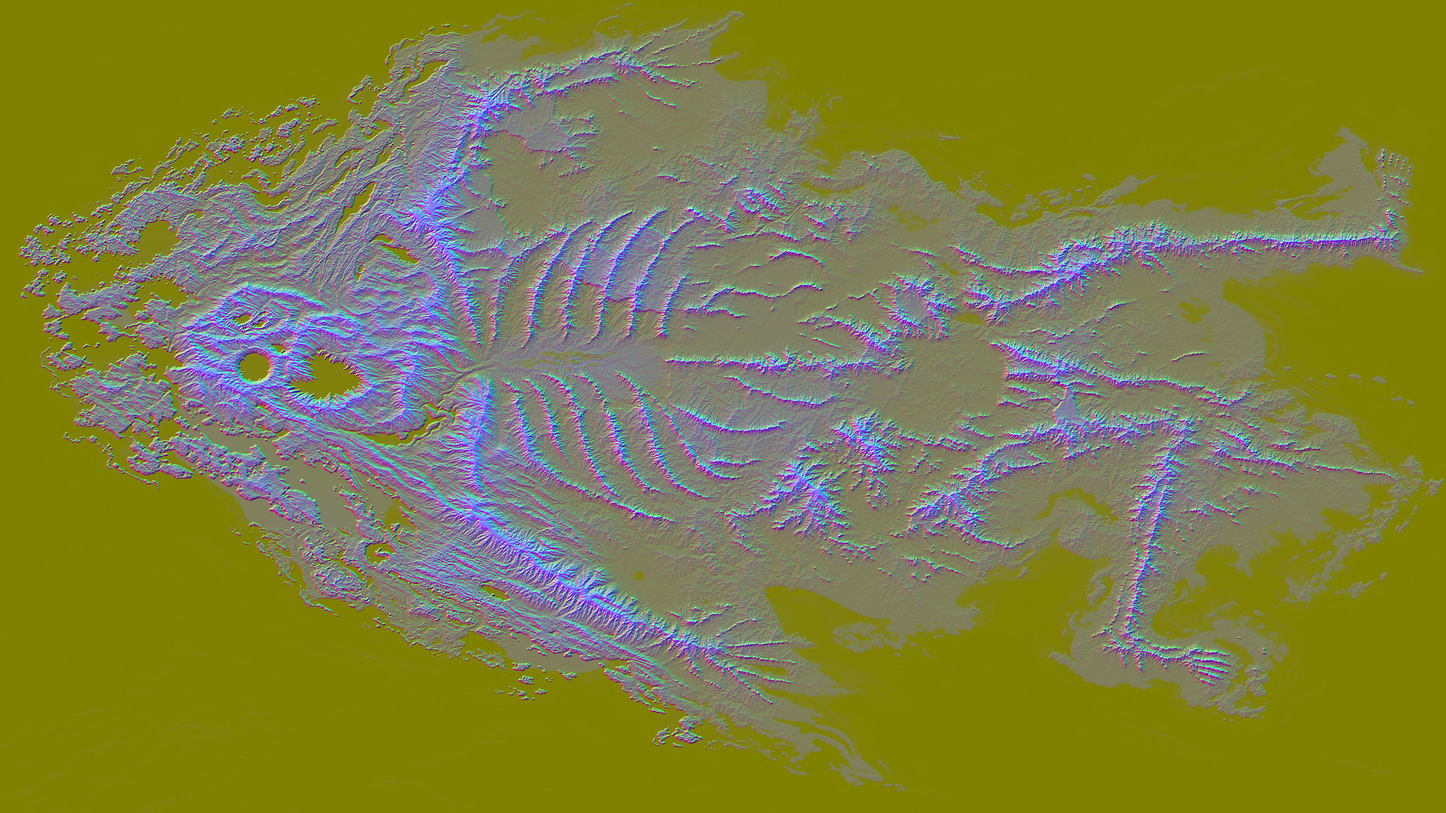
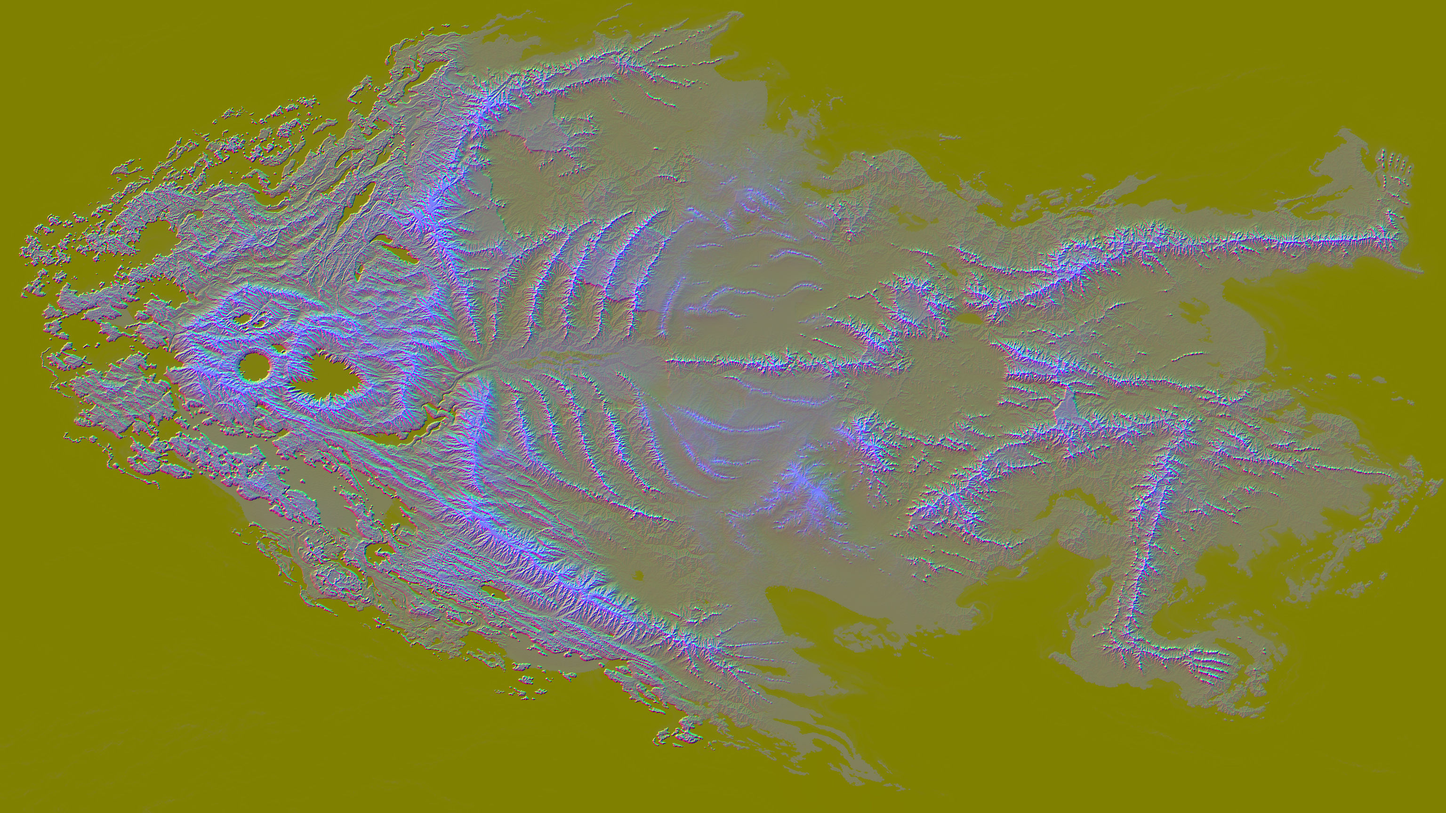
Ribs: one range a rib (the light's land lowers the broad form of each bone, the lesser ranges lowered and dark); night: bones bolder under the moon, limbs read as fine as they are broad

diff --git a/src/places/reveal/land/body.ts b/src/places/reveal/land/body.ts
@@ -70,7 +70,11 @@ export const BODY_GROUND = /* glsl */ `
   ground = mix(ground, body, joined);
   // (By night the bones are broad pale ranges under the moon, each in its whole body, as the high ground stands: not their crest lines alone.)
   float boneBody = joined * land * smoothstep(0.25, 0.45, height) * smoothstep(0.14, 0.32, dot(coarseGround, vec3(0.3, 0.55, 0.15)));
-  ground = mix(ground, vec3(0.62, 0.59, 0.52), 0.35 * uEmber.x * boneBody);
+#ifdef BODYONLY
+  // (The limbs are thin ranges: read no coarser than they are broad, they keep the skull's value under the moon.)
+  if (uEmber.x > 0.0) boneBody = joined * land * smoothstep(0.2, 0.4, height) * smoothstep(0.14, 0.3, max(dot(coarseGround, vec3(0.3, 0.55, 0.15)), dot(readWide(uMapWide, clamp(uvWide, 0.0, 1.0), 3.0).rgb, vec3(0.3, 0.55, 0.15))));
+#endif
+  ground = mix(ground, vec3(0.62, 0.59, 0.52), 0.55 * uEmber.x * boneBody);
 #endif
 `;
 
@@ -87,7 +91,7 @@ export const BODY_LIGHT = /* glsl */ `
   ground *= 1.0 - 0.45 * saltFlat * uEmber.x * joined;
   // (By night the moon lights the ranges in their whole body, broad, as it does the high ground of any land seen from orbit: the
   // body of a bone stands toward it, and the fine relief is a grain on that, not a wire drawing.)
-  slope = mix(slope, 0.7 * slope, uEmber.x * joined) - uBodyRelief2.w * boneBody * uEmber.x * normalize(uMoonDir.xz);
+  slope = mix(slope, 0.5 * slope, uEmber.x * joined) - uBodyRelief2.w * boneBody * uEmber.x * normalize(uMoonDir.xz);
 #endif
 `;
 

diff --git a/src/places/reveal/land/index.ts b/src/places/reveal/land/index.ts
@@ -24,7 +24,7 @@ const FEEDER: [number, number][] = [[1224.0, 1440.0], [1226.8, 1468.5], [1221.0,
 const BODY_RELIEF = Number(import.meta.env.VITE_BODY_RELIEF ?? 1.6);
 const BODY_SHADOW = Number(import.meta.env.VITE_BODY_SHADOW ?? 1.0);
 const BODY_FINE = Number(import.meta.env.VITE_BODY_FINE ?? 0.7);
-const BODY_NIGHT = Number(import.meta.env.VITE_BODY_NIGHT ?? 0.018);
+const BODY_NIGHT = Number(import.meta.env.VITE_BODY_NIGHT ?? 0.024);
 
 export const PARTS = ['sea', 'continent', 'salt', 'lake', 'lava'] as const;
 

diff --git a/assets-src/reveal/land/body/make_body.py b/assets-src/reveal/land/body/make_body.py
@@ -41,6 +41,8 @@ KM_PER_MASTER_PX = 4536.0 / 5295.59
 RELIEF_KM = float(os.environ.get('RELIEF_KM', '16'))
 # How much of a bone's whole body is pale, beside its crest line: the width of bone against country.
 BODYW = float(os.environ.get('BODYW', '1.0'))
+RIBFLAT = float(os.environ.get('RIBFLAT', '0.7'))
+LESSFLAT = float(os.environ.get('LESSFLAT', '0.75'))
 ONLY = os.environ.get('ONLY', '')
 TURN = math.atan2(-0.2, 0.78) - math.radians(3.0)
 SUN = (math.sin(TURN), -math.cos(TURN))
@@ -177,6 +179,15 @@ def pan_reach(W, H):
     return r + 1.1 * (fbm((H, W), np.random.default_rng(SEED + 7), 110.0 / F, 4) - 0.5)
 
 
+def lesser_ranges(W, H):
+    """1 on the ranges of the chest that are not the six a side nearest the shoulders, in px of the full map."""
+    y, x = np.mgrid[0:H, 0:W].astype(np.float32)
+    fx, fy = x * F, y * F
+    upper = smooth(1790.0, 1850.0, fx - 0.33 * (900.0 - fy)) * smooth(45.0, 80.0, 1010.0 - fy) * (1.0 - smooth(2300.0, 2400.0, fx))
+    lower = smooth(1740.0, 1800.0, fx - 0.4 * (fy - 1050.0)) * smooth(45.0, 80.0, fy - 1010.0) * (1.0 - smooth(2300.0, 2400.0, fx - 0.4 * (fy - 1050.0)))
+    return np.clip(upper + lower, 0.0, 1.0)
+
+
 def zone(W, H, at, inner, outer):
     """1 inside an ellipse given in px of the full map, falling to 0 between inner and outer of its radius."""
     y, x = np.mgrid[0:H, 0:W].astype(np.float32)
@@ -230,9 +241,19 @@ def outputs():
     # ---- relief: the encoding of relief-a.jpg ----
     gx = ndimage.sobel(e, axis=1) / 8.0 / px
     gy = ndimage.sobel(e, axis=0) / 8.0 / px
+    # (One range a rib: lit as it stands, the two flanks of a bone read from orbit as two pale lines with the crest's shade
+    # between them. So the light is given a land on which the broad form of each bone is lower than it is, a pale tableland
+    # ridged by its spurs and gullies, which keep their whole height: the bone is one band, and every ridge on it still casts.)
+    body = smooth(float(os.environ.get('BODY0', '0.36')), float(os.environ.get('BODY1', '0.68')), ndimage.gaussian_filter(h_old, 5.0 * px))
+    e_lit = e - RIBFLAT * np.clip(body * 1.5, 0.0, 1.0) * (ndimage.gaussian_filter(e, 6.0 * px) - ndimage.gaussian_filter(e, 22.0 * px))
+    # (And the lesser ranges of the chest, toward the belly, stand lower in the light than they are, so their crests do not
+    # count as ribs.)
+    e_lit = e_lit - LESSFLAT * lesser_ranges(W, H) * (e - ndimage.gaussian_filter(e, 22.0 * px))
+    gx_lit = ndimage.sobel(e_lit, axis=1) / 8.0 / px
+    gy_lit = ndimage.sobel(e_lit, axis=0) / 8.0 / px
     relief_old = np.asarray(Image.open(os.path.join(LAND, 'relief-a.jpg')).convert('RGB').resize((W, H), Image.LANCZOS), dtype=np.float32) / 255.0
-    r = 0.5 + 0.5 * np.tanh(gx * 17.0)
-    g = 0.5 + 0.5 * np.tanh(gy * 17.0)
+    r = 0.5 + 0.5 * np.tanh(gx_lit * 17.0)
+    g = 0.5 + 0.5 * np.tanh(gy_lit * 17.0)
     b = np.where(dom, 0.3 + 0.7 * (0.07 + 0.93 * e), np.minimum(relief_old[..., 2], 0.25))
     # (The strait of the Ribs: the land sheet lets the sea into the low ground there by this height. Its water stays where the
     # old relief had it, so the coast of the strait does not move.)
@@ -251,7 +272,7 @@ def outputs():
 
     # ---- light: the encoding of light-a.jpg ----
     if ONLY != 'colour':
-        up = 0.07 + 0.93 * e
+        up = 0.07 + 0.93 * e_lit
         up = up * dom
         if F == 1:
             half = np.asarray(Image.fromarray(up).resize((W // 2, H // 2), Image.BOX), dtype=np.float32)
@@ -277,7 +298,6 @@ def outputs():
     # ---- colour: the country, with no light in it ----
     slope = np.hypot(gx, gy) * top * 0.5  # about the true fall, cell for cell
     # (The bones themselves, as the old map has them: a range that is a bone is pale in its whole body, stained, its valleys dark.)
-    body = smooth(float(os.environ.get('BODY0', '0.36')), float(os.environ.get('BODY1', '0.68')), ndimage.gaussian_filter(h_old, 5.0 * px))
     ridge = e - ndimage.gaussian_filter(e, 5.0 * px)
     broad = ndimage.gaussian_filter(e, 14.0 * px)
     wet = np.log10(np.maximum(area, 1.0))
@@ -357,18 +377,16 @@ def outputs():
     crest = smooth(0.012, 0.08, ridge) * smooth(0.3, 0.6, e)
     # (Of the ranges of the chest, the six a side nearest the shoulders are the great ones and carry the pale; those toward the
     # belly are lesser ranges of dark rock, so each side reads five or six ribs from orbit.)
-    upper = smooth(1790.0, 1850.0, fx - 0.33 * (900.0 - fy)) * smooth(45.0, 80.0, 1010.0 - fy) * (1.0 - smooth(2050.0, 2150.0, fx))
-    lower = smooth(1740.0, 1800.0, fx - 0.4 * (fy - 1050.0)) * smooth(45.0, 80.0, fy - 1010.0) * (1.0 - smooth(2150.0, 2250.0, fx - 0.4 * (fy - 1050.0)))
-    lesser = np.clip(upper + lower, 0.0, 1.0)
+    lesser = lesser_ranges(W, H)
     # (A bone keeps its mass: its whole body is pale, as broad as the old map has it, ridged by the relief, and stained where
     # water gathers in its gullies and where the rock is rotten.)
     gully = smooth(2.3, 3.3, wet) * (1.0 - smooth(0.5, 0.8, e))
     rot = smooth(0.52, 0.7, fbm((H, W), rng, 22 * px, 4)) * (1.0 - smooth(0.35, 0.7, e))
     mass = BODYW * body * (0.8 + 0.4 * mott) * (1.0 - 0.6 * gully) * (1.0 - 0.45 * rot) * (1.0 - 0.3 * smooth(0.0, 0.05, -ridge))
-    paleness = np.clip(np.maximum(0.85 * crest + 0.5 * smooth(0.6, 0.95, e), mass), 0.0, 1.0) * (1.0 - 0.8 * lesser)
+    paleness = np.clip(np.maximum(0.85 * crest + 0.5 * smooth(0.6, 0.95, e), mass), 0.0, 1.0) * (1.0 - 0.9 * lesser)
     rock = mixc(rock, bone, paleness)
-    rock = mixc(rock, srgb(232, 232, 228), smooth(0.88, 0.98, e) * smooth(0.0, 0.05, ridge))
-    colour = mixc(country, rock, np.maximum(smooth(0.13, 0.36, e + 0.25 * np.maximum(ridge, 0.0) * 4.0), np.clip(BODYW * 1.2 * body, 0.0, 1.0) * (1.0 - 0.8 * lesser)))
+    rock = mixc(rock, srgb(232, 232, 228), smooth(0.88, 0.98, e) * smooth(0.0, 0.05, ridge) * (1.0 - lesser))
+    colour = mixc(country, rock, np.maximum(smooth(0.13, 0.36, e + 0.25 * np.maximum(ridge, 0.0) * 4.0), np.clip(BODYW * 1.2 * body, 0.0, 1.0) * (1.0 - 0.9 * lesser)))
     # The coast: a pale hairline of beach on low shores, dark rock where the land meets the sea steep.
     low_shore = (1.0 - smooth(0.02, 0.07, ndimage.gaussian_filter(e, 2.0 * px))) * smooth(0.42, 0.56, fbm((H, W), rng, 120 * px, 3))
     beach = (1.0 - smooth(0.6, 2.2, d_shore)) * low_shore * dom

diff --git a/assets-src/reveal/land/RECIPE.md b/assets-src/reveal/land/RECIPE.md
@@ -103,5 +103,5 @@ Made by: `assets-src/reveal/land/body/make_body.py` on Python 3 with numpy, scip
 From: `public/assets/reveal/maps/map-a-h.png` (where the bones stand and how high), `public/assets/reveal/maps/map-a.jpg` (the colour of the salt pan of the hips and of the water, kept), `public/assets/reveal/land/shore-a.png` (land or water: the coast is not moved), `relief-a.jpg` and `light-a.jpg` (the water's own values, kept; the old water of the strait).
 Prompt or command: `python3 assets-src/reveal/land/body/make_body.py` from the root of the repo (about five minutes; `F=2` works at half size in under a minute; `STAGE=outputs` writes the pictures again from the kept height field under `out/work/body/`; `BODYW` sets how much of a bone's body is pale beside its crest line).
 Takes: not generated. Seed 30. The numbers of the uplift, the erosion and the colours were set by looking at frames 10027, 11100 and 11743.
-Why this one: the old maps of the wide level were pictures with relief guessed from their light and dark, so from orbit the ranges were soft smears and the country one brown fill. Here the whole continent is one height field worn by running water (uplift along the bones' middle lines, a filled surface, steepest descent drainage, stream power erosion, 60 passes at 4096 x 2305): every bone is a range with a crest line, spurs and valleys of unlike length that fork. From that one field: the relief in the encoding of `relief-a.jpg` (slope in red and green, height in blue; the strait's water kept where it stood), the light in the encoding of `light-a.jpg` (the horizon toward the day's sun, the open sky, the shut waters), and the colour of the country computed from height, slope, drainage and the distance to the shore, province by province (dark lava plain, olive plain, pale dunes, rust, dry fans, salt pans, damp valley floors, stained rock, pale crests, old snow on the highest only, a hairline of beach, dark rock on steep shores). No light is in the colour. The outer ranges of the chest are left dark so each side reads five or six ribs. Each bone keeps its mass: the whole breadth of the old bone is pale rock (the old height, blurred, between 0.36 and 0.68), stained where water runs in its gullies and where it rots, and the low country is kept under half its value, in brown, olive, rust and slate. The pan of the hips is a basin worn into the field with a broken shore (uplift taken down inside a ring of uneven reach, seed 37), and the old colour is kept on its floor only. `PAL=b` draws the second palette of the low country (green and slate) for a choice and is not the committed picture.
+Why this one: the old maps of the wide level were pictures with relief guessed from their light and dark, so from orbit the ranges were soft smears and the country one brown fill. Here the whole continent is one height field worn by running water (uplift along the bones' middle lines, a filled surface, steepest descent drainage, stream power erosion, 60 passes at 4096 x 2305): every bone is a range with a crest line, spurs and valleys of unlike length that fork. From that one field: the relief in the encoding of `relief-a.jpg` (slope in red and green, height in blue; the strait's water kept where it stood), the light in the encoding of `light-a.jpg` (the horizon toward the day's sun, the open sky, the shut waters), and the colour of the country computed from height, slope, drainage and the distance to the shore, province by province (dark lava plain, olive plain, pale dunes, rust, dry fans, salt pans, damp valley floors, stained rock, pale crests, old snow on the highest only, a hairline of beach, dark rock on steep shores). No light is in the colour. The outer ranges of the chest are left dark so each side reads five or six ribs. Each bone keeps its mass: the whole breadth of the old bone is pale rock (the old height, blurred, between 0.36 and 0.68), stained where water runs in its gullies and where it rots, and the low country is kept under half its value, in brown, olive, rust and slate. The pan of the hips is a basin worn into the field with a broken shore (uplift taken down inside a ring of uneven reach, seed 37), and the old colour is kept on its floor only. One range a rib: the slope and the horizon of the light are taken from a land on which the broad form of each bone stands lower than it is (`RIBFLAT` 0.7 of the height between 6 and 22 cells of blur), so a bone is one pale band ridged by its spurs and not two lines with the crest's shade between; the lesser ranges of the chest toward the belly are lowered in the light the same way (`LESSFLAT` 0.75) and kept dark. The height in the relief's blue is the true one. `PAL=b` draws the second palette of the low country (green and slate) for a choice and is not the committed picture.
 Date: 2026-11-28
